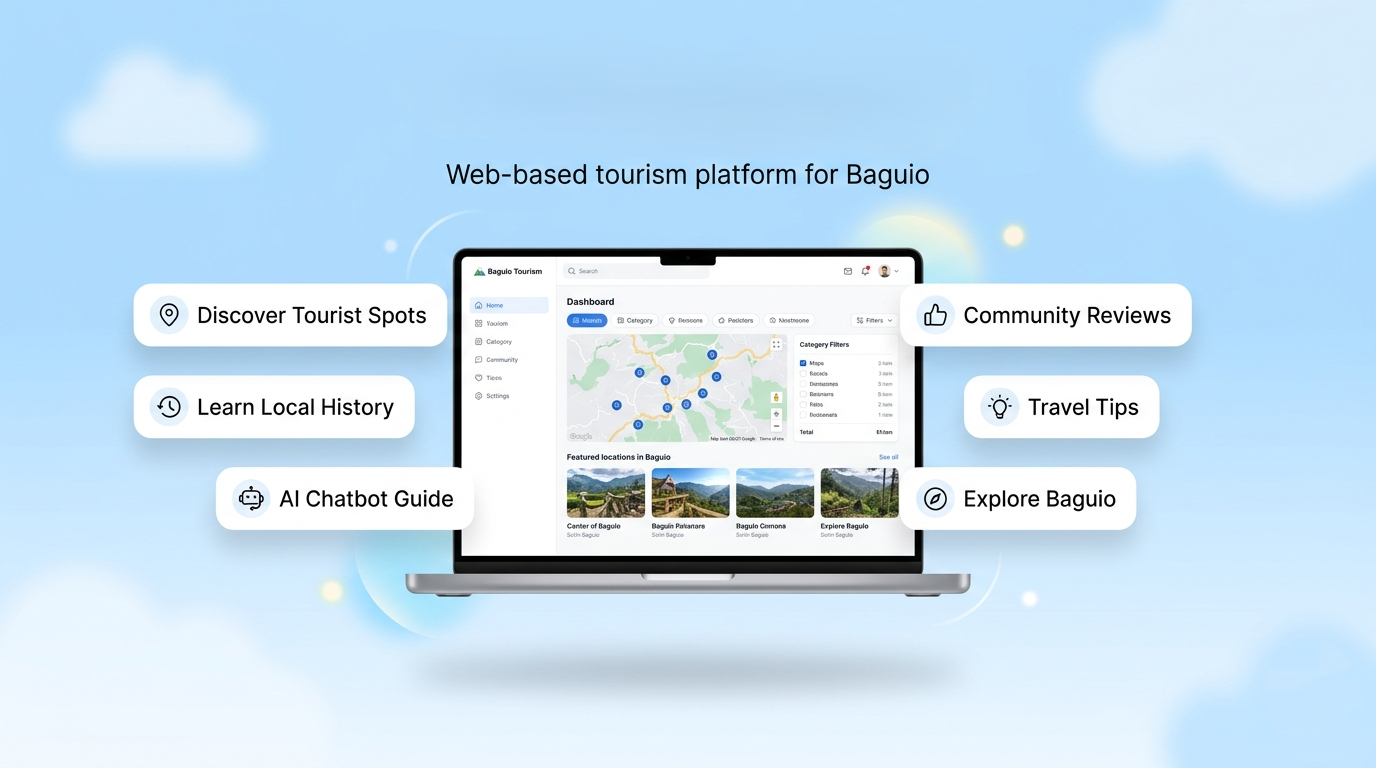
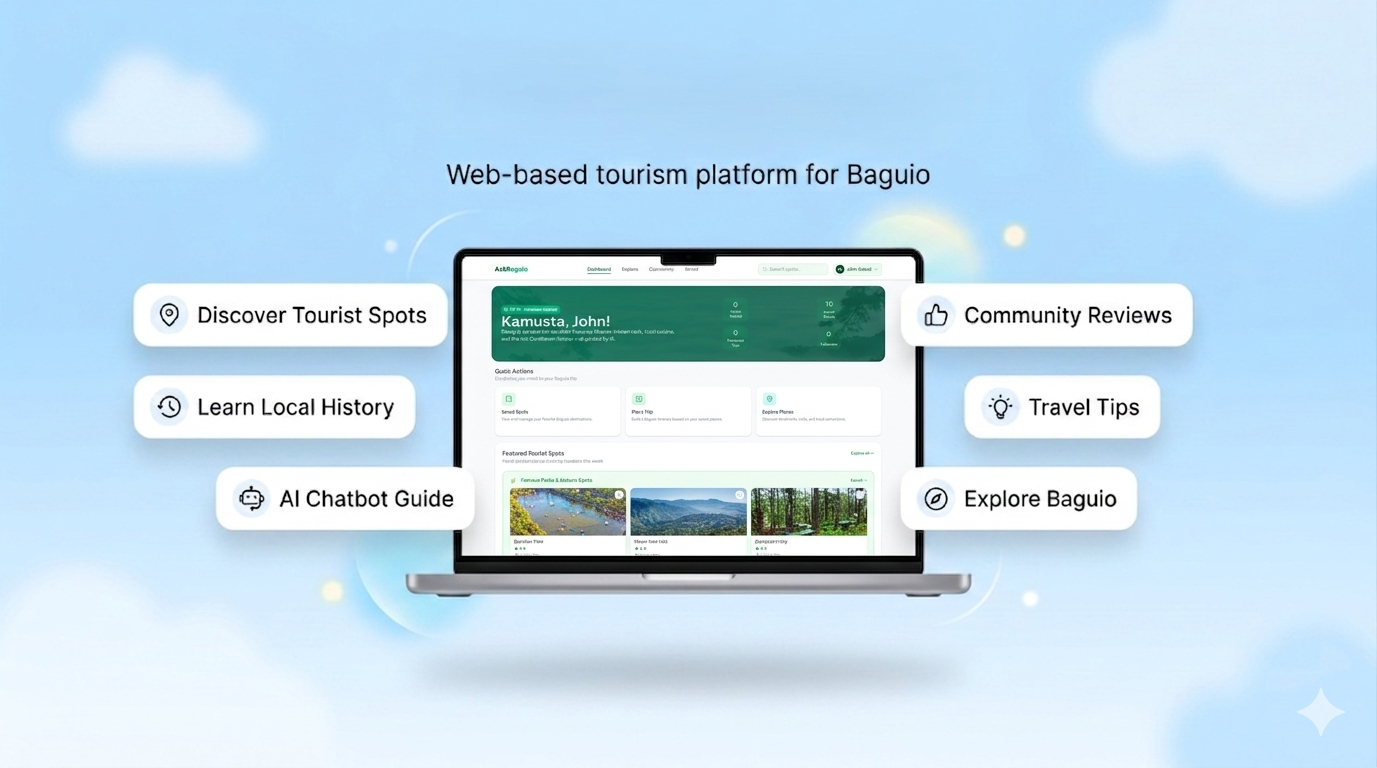
Saved section functionality (#103)
* fix:multiple bugs

* feat:added Spots Visited, Saved Placed, PLanned Trips, And Followers on profile card

* added:save button for each places in explore and started the chatbot for explore

* added:more details for explore chatbot

* feat:working chatbot for each spots on explore but sys_role needs to be updated

* feat:Explore spots now has a working chatbot guide

* fix:vercel error deployment

* fix:vercel error deployment

* fix:vercel error deployment

* added:working database for saved_spots

* feat: working save button and now reflects the number of save spots on dashboard

* feat:working saved button on the explore section and some landing page redesign

diff --git a/src/navpages/Saved.jsx b/src/navpages/Saved.jsx
@@ -1,8 +1,42 @@
 import { DashboardNav } from "../dashboard/DashboardNav"
 import { BookmarkIcon, MagnifyingGlassIcon } from '@heroicons/react/24/outline'
-import { useState } from "react"
+import { useState, useEffect } from "react"
 export const Saved = ()=>{
     const [selected, setSelected] = useState('all')
+    const [saveData,setSaveData] = useState([])
+
+
+    const [savedSpots, setSavedSpots] = useState([]);
+
+    const fetchSaved = async () => {
+        const user = JSON.parse(localStorage.getItem("user"));
+        const userId = user?.id || user?.users_id;
+
+        if (!userId) {
+            console.log("No user ID found");
+            return;
+        }
+
+        try {
+            const res = await fetch(`/api/saved-spots?userId=${userId}`);
+            const data = await res.json();
+
+            if (res.ok && Array.isArray(data)) {
+                setSavedSpots(data);
+            } else {
+                console.log(data.error || "Invalid saved spots data");
+                setSavedSpots([]);
+            }
+        } catch (err) {
+            console.log("Fetch saved spots error:", err);
+            setSavedSpots([]);
+        }
+    };
+
+    useEffect(() => {
+        fetchSaved();
+    }, []);
+
     return <section>
         <DashboardNav/>
         <div className="flex justify-center m-5">
@@ -36,6 +70,21 @@ export const Saved = ()=>{
                 <input type="text" className="outline-0" placeholder="Search saved..." />
             </div>
         </div>
+        </div>
+
+        
+        <div className="flex flex-wrap justify-around mt-10 lg:mx-20">
+            {savedSpots.length > 0 ? (
+                savedSpots.map((spot) => (
+                    <div className="flex flex-col w-64" key={spot.saved_id}>
+                        <img className="rounded-2xl h-44" src={spot.spot_image} alt={spot.spot_name} />
+                        <h3>{spot.spot_name}</h3>
+                        <p>{spot.spot_location}</p>
+                    </div>
+                ))
+            ) : (
+                <p>No saved spots yet.</p>
+            )}
         </div>
     </section>
 }

diff --git a/src/dashboard/QuickActions.jsx b/src/dashboard/QuickActions.jsx
@@ -1,5 +1,5 @@
 import { BookmarkIcon, MapPinIcon, MapIcon } from '@heroicons/react/24/outline'
-
+import { useNavigate } from 'react-router-dom'
 const actions = [
     {
         icon: <BookmarkIcon className="w-6 h-6 text-green-700" />,
@@ -22,8 +22,15 @@ const actions = [
 ]
 
 function ActionCard({ icon, name, desc, bg, index }) {
+    const navigate = useNavigate()
+    function buttonIdentifier(){
+        if(name === "Saved Spots"){
+             navigate('/saved')
+        }
+    }
     return (
         <div
+            
             className="group bg-white border border-gray-100 rounded-2xl p-5 flex flex-col gap-3 shadow-sm
                         hover:shadow-md hover:-translate-y-1 hover:border-green-200
                         transition-all duration-300 cursor-pointer qa-card"
@@ -37,7 +44,7 @@ function ActionCard({ icon, name, desc, bg, index }) {
                 <h3 className="font-semibold text-gray-800 text-sm">{name}</h3>
                 <p className="text-gray-400 text-xs mt-1 leading-relaxed">{desc}</p>
             </div>
-            <span className="text-xs text-green-700 font-semibold opacity-0 group-hover:opacity-100 transition-opacity duration-300">
+            <span onClick={buttonIdentifier} className="text-xs text-green-700 font-semibold opacity-0 group-hover:opacity-100 transition-opacity duration-300">
                 Open →
             </span>
         </div>

diff --git a/src/components/nav.jsx b/src/components/nav.jsx
@@ -3,7 +3,11 @@ import { useNavigate } from 'react-router-dom'
 export const NavBar = ()=>{
     const navigate = useNavigate()
     return <div className="flex font-bold items-center justify-around py-4 max-sm:hidden bg-white ">
-             <h1 className="font-extrabold text-3xl text-green-900 uppercase max-sm:hidden">Ask Baguio</h1>
+       <div className='flex'>
+              <img className='w-10' src="/imgs/logo.png" alt="" />
+              <h1 className="font-extrabold text-3xl text-green-900 uppercase max-sm:hidden">Ask Baguio</h1>
+       </div>
+             
              <div className="flex gap-9 text-green-800 items-center max-sm:hidden">
                     <a href="#" className=" cursor-pointer 
                     relative
@@ -34,7 +38,7 @@ export const NavBar = ()=>{
                     hover:after:w-full
                     text-xl
                     max-sm:text-sm
-                    " onClick={()=>navigate('/AboutUs')}>About Us</a>
+                    " onClick={()=>navigate('/AboutUs')}>Developers</a>
                     <a href="#" onClick={()=>navigate('/Register')} className="hover:bg-green-600 transition-all duration-400 max-sm:text-sm text-xl cursor-pointer text-white bg-green-900 px-4 py-1.5 rounded-2xl">Sign Up</a>
                  
              </div>

diff --git a/src/components/landingpagechatbot.jsx b/src/components/landingpagechatbot.jsx
@@ -1,6 +1,6 @@
 import { useState,useEffect,useRef } from 'react'
 import { XMarkIcon, PaperAirplaneIcon, SparklesIcon } from '@heroicons/react/24/solid'
-
+import { RiRobot2Fill } from 'react-icons/ri'
 const INITIAL_MESSAGES = [
     { from: 'bot', text: 'Hi there! 👋 I\'m Ask Baguio Bot, your smart travel guide for the City of Pines. How can I help you today?' },
 ]
@@ -67,7 +67,7 @@ export const ChatbotModal = ({ onClose }) => {
                 <div className="bg-green-900 px-6 py-4 flex items-center justify-between">
                     <div className="flex items-center gap-3">
                         <div className="bg-green-700 p-2 rounded-xl">
-                            <img className='h-6' src="/imgs/chatbotLogo.png" alt="Chatlogo" />
+                            <RiRobot2Fill className="w-7 h-7 text-white" />
                         </div>
                         <div>
                             <h2 className="text-white font-bold text-lg leading-tight">Ask Baguio Bot</h2>
@@ -90,7 +90,7 @@ export const ChatbotModal = ({ onClose }) => {
                             
                             {msg.from === 'bot' && (
                                 <div className="w-7 h-7 rounded-full bg-green-900 flex items-center justify-center mr-2 mt-1 shrink-0">
-                                     <img className='h-6' src="/imgs/chatbotLogo.png" alt="Chatlogo" />
+                                     <RiRobot2Fill className="ml-1 w-4  text-white" />,
                                 </div>
                             )}
                            

diff --git a/src/components/howItWorks.jsx b/src/components/howItWorks.jsx
@@ -1,5 +1,6 @@
 import { useEffect, useRef } from 'react'
-import { MagnifyingGlassIcon, BookOpenIcon, SparklesIcon } from '@heroicons/react/24/solid'
+import { MagnifyingGlassIcon, BookOpenIcon} from '@heroicons/react/24/solid'
+import { RiRobot2Fill } from 'react-icons/ri'
 
 const STEPS = [
     {
@@ -20,7 +21,7 @@ const STEPS = [
     },
     {
         number: '03',
-        icon: <SparklesIcon className="w-7 h-7 text-white" />,
+        icon: <RiRobot2Fill className="w-7 h-7 text-white" />,
         title: 'Ask the AI Guide',
         desc: 'Get instant itinerary suggestions, travel tips, and personalized recommendations from our AI.',
         anim: 'fromRight',

diff --git a/index.html b/index.html
@@ -2,10 +2,10 @@
 <html lang="en">
   <head>
     <meta charset="UTF-8" />
-    <link rel="icon" type="image/svg+xml" href="/favicon.svg" />
+    <link rel="icon" type="image/svg+xml" href="/public/imgs/logo.svg" />
     <link rel="stylesheet" href="https://cdnjs.cloudflare.com/ajax/libs/font-awesome/6.5.0/css/all.min.css">
     <meta name="viewport" content="width=device-width, initial-scale=1.0" />
-    <title>baguio-tourist-system</title>
+    <title>Ask Baguio</title>
   </head>
   <body>
     <div id="root"></div>

diff --git a/src/App.jsx b/src/App.jsx
@@ -74,7 +74,7 @@ function App(){
     <AboutSection />
     <HowitWorks />
     <CalltoAction />
-    <div className="mt-16">
+    <div className="mt-40">
       <svg
         xmlns="http://www.w3.org/2000/svg"
         viewBox="0 0 1440 320"